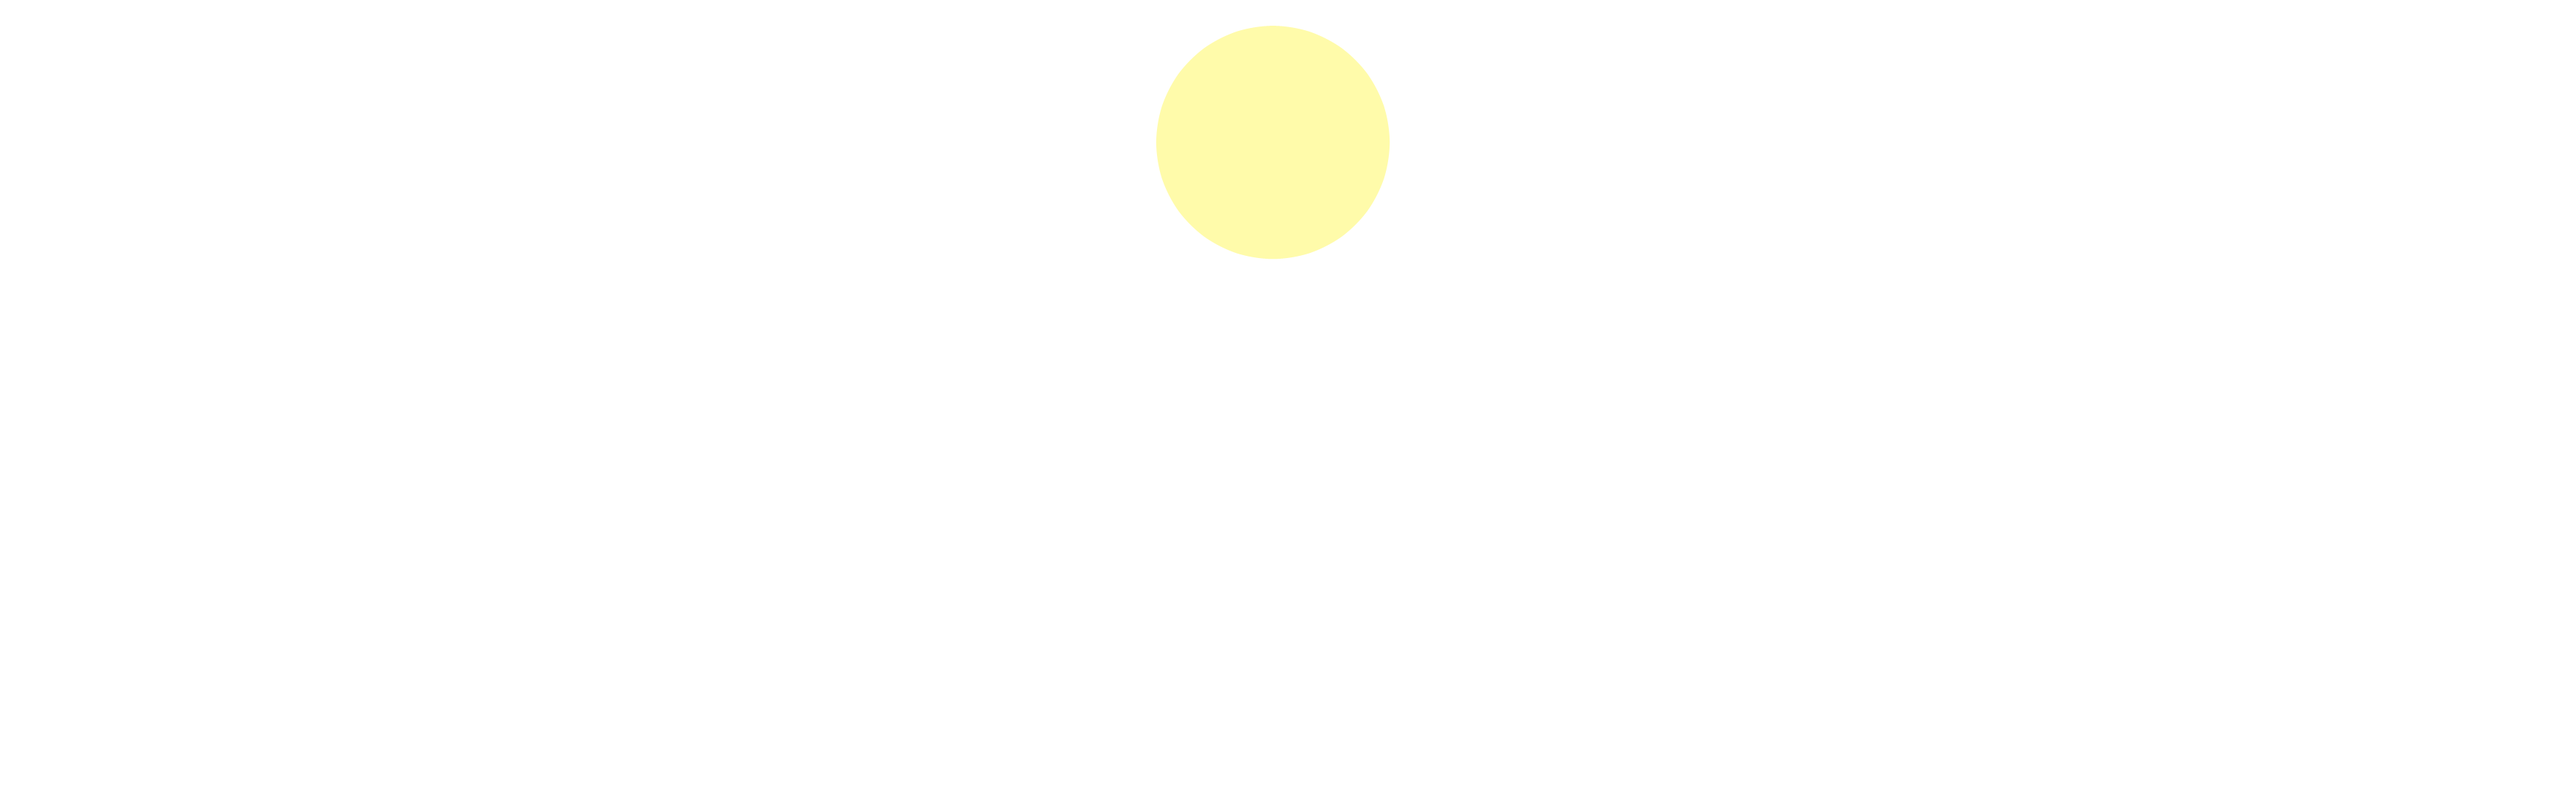
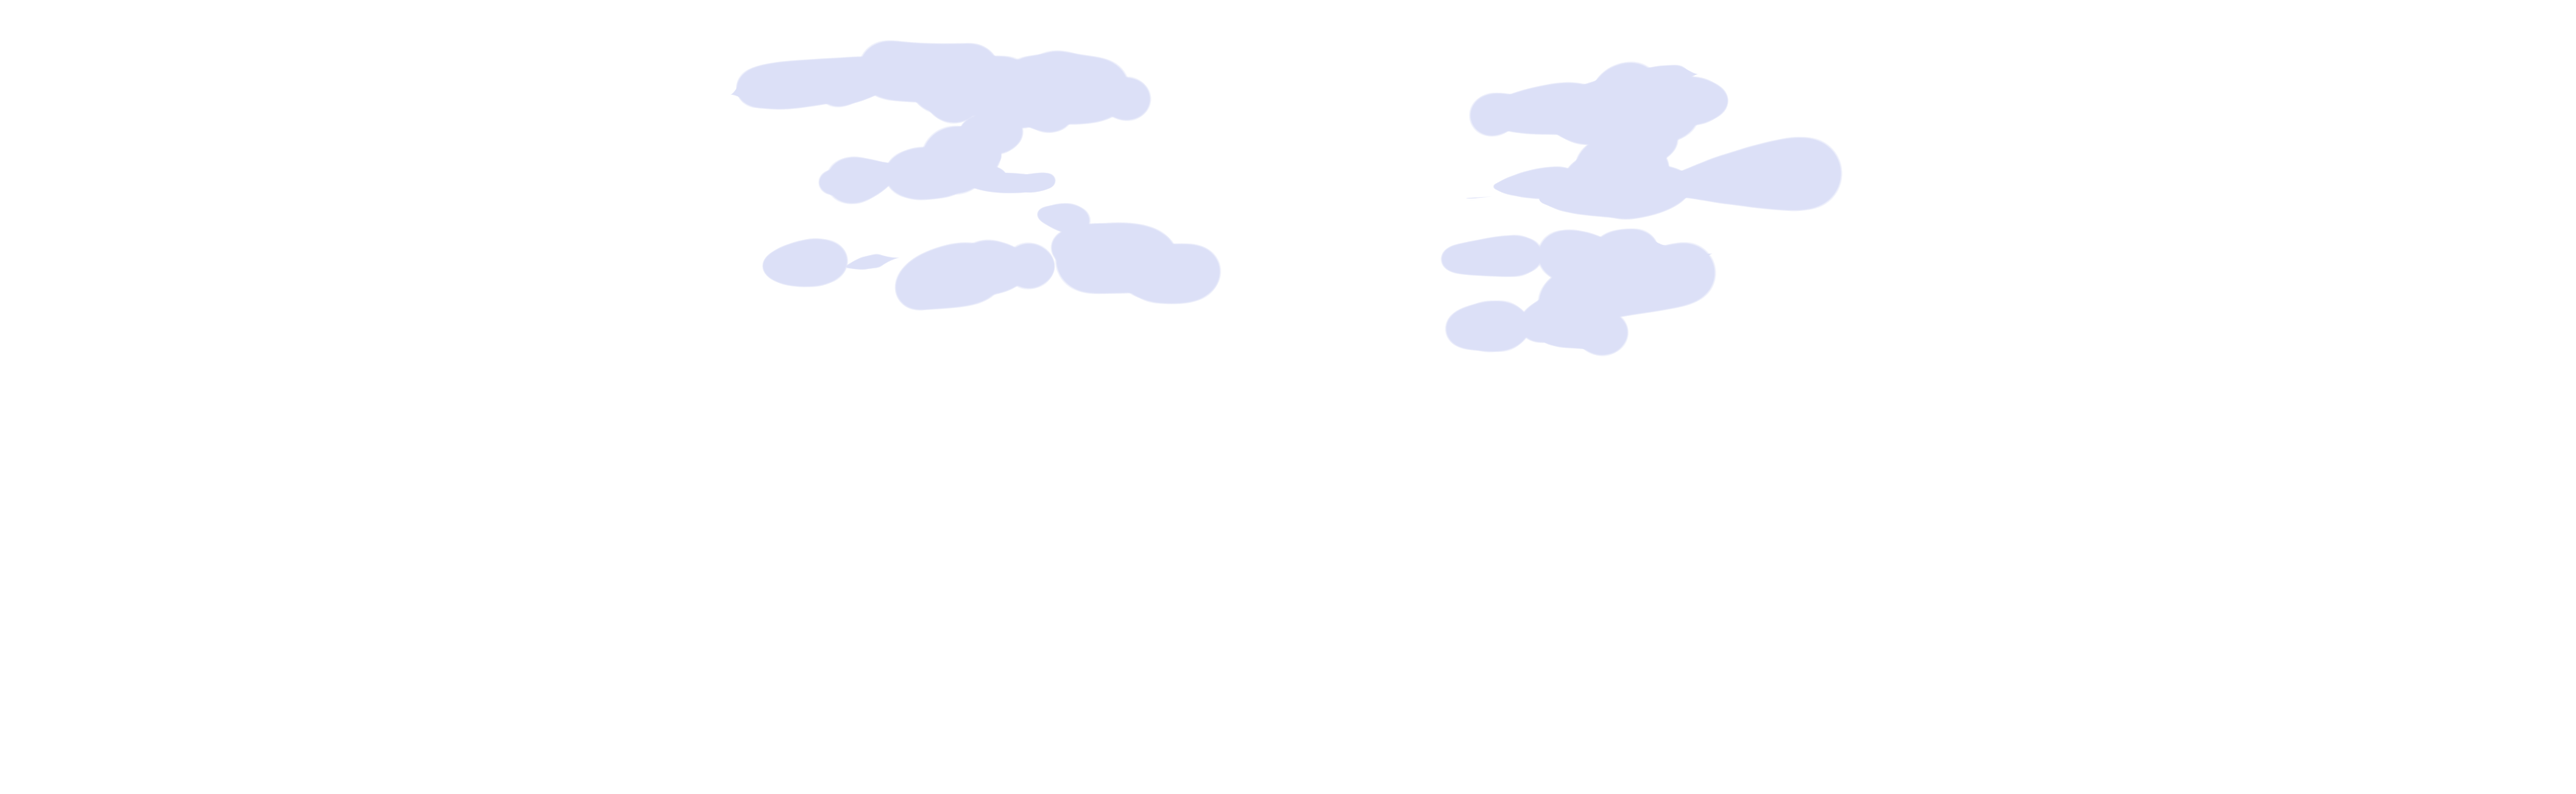
movement

Changed region(s): [[0.2803, 0.0306, 0.7163, 0.4583]]

diff --git a/css/desktop-sm.css b/css/desktop-sm.css
@@ -75,6 +75,96 @@
         background-image: url(/img/art/parallax/parallax11.png)
     }
 
+/* ============================================================================================== 
+SED Innovations
+https://sed.am
+https://mkrtchyan.ga
+================================================================================================= */
+
+
+
+@keyframes move-twink-back {
+    from {background-position:0 0;}
+    to {background-position:-5000px 2500px;}
+}
+@-webkit-keyframes move-twink-back {
+    from {background-position:0 0;}
+    to {background-position:-5000px 2500px;}
+}
+@-moz-keyframes move-twink-back {
+    from {background-position:0 0;}
+    to {background-position:-5000px 2500px;}
+}
+@-ms-keyframes move-twink-back {
+    from {background-position:0 0;}
+    to {background-position:-5000px 2500px;}
+}
+
+@keyframes move-clouds-back {
+    from {background-position:-750 0;}
+    to {background-position:1250px 0;}
+}
+@-webkit-keyframes move-clouds-back {
+    from {background-position:0 0;}
+    to {background-position:1250px 0;}
+}
+@-moz-keyframes move-clouds-back {
+    from {background-position:0 0;}
+    to {background-position:1250px 0;}
+}
+@-ms-keyframes move-clouds-back {
+    from {background-position: 0;}
+    to {background-position:1250px 0;}
+}
+
+
+.stars {
+  background:#2A3370 url(/img/art/stars.png) no-repeat top center;
+    background-size: 100%;
+  z-index:0;
+}
+
+.twinkling{
+  background:transparent url(/img/art/twinkling.png) repeat top center;
+
+  top:0;
+  left:0;
+  right:0;
+  bottom:0;
+  width:100%;
+  height:100%;
+  display:block;
+
+  -moz-animation:move-twink-back 200s linear infinite;
+  -ms-animation:move-twink-back 200s linear infinite;
+  -o-animation:move-twink-back 200s linear infinite;
+  -webkit-animation:move-twink-back 200s linear infinite;
+  animation:move-twink-back 200s linear infinite;
+}
+
+.clouds{
+  -moz-animation:move-clouds-back 200s linear infinite;
+  -ms-animation:move-clouds-back 200s linear infinite;
+  -o-animation:move-clouds-back 200s linear infinite;
+  -webkit-animation:move-clouds-back 200s linear infinite;
+  animation:move-clouds-back 200s linear infinite;
+}
+    
+    
+    
+    
+    
+    
+    
+    
+    
+    
+    
+    
+    
+    
+    
+    
     
     header {
           padding: 20px 10% 20px 13%;

diff --git a/index.html b/index.html
@@ -14,7 +14,7 @@
         <script type="text/javascript" src="//code.jquery.com/jquery-1.11.0.min.js"></script>
         <script type="text/javascript" src="//code.jquery.com/jquery-migrate-1.2.1.min.js"></script>
         <script type="text/javascript" src="slick/slick.min.js"></script>
-        
+       
         <!--  FAVICON   -->
         
         <link rel="apple-touch-icon" sizes="180x180" href="/img/favicon/apple-touch-icon.png">
@@ -31,12 +31,16 @@
  
         <div class="lightsOff"></div>
         <section class="showcase">
+            <div class="parallaxLayer parallax stars" id="layer-1" data-speed="2">            </div>
+            
+            <div class="parallaxLayer parallax twinkling" id="layer0" data-speed="2">            </div>
+            
             <div class="parallaxLayer parallax" id="layer1" data-speed="2">
             
             
             
             </div>
-            <div class="parallaxLayer parallax" id="layer2" data-speed="5">
+            <div class="parallaxLayer parallax clouds" id="layer2" data-speed="5">
             
             
             
@@ -61,7 +65,7 @@
             
             
             </div>
-            <div class="parallaxLayer parallax" id="layer7" data-speed="5">
+            <div class="parallaxLayer parallax" id="layer7" data-speed="2">
             
             
             

diff --git a/css/dark-theme.css b/css/dark-theme.css
@@ -1,0 +1,20 @@
+:root {
+
+--contrast: #2a2d42;
+--mainBG: #21252E; 
+--primary: #243650;
+--dark: #DFDFDF;
+}
+
+
+header .logo {
+    stroke: var(--dark);
+}
+
+.menu ul li a,
+.button a::before,
+.ribbon span
+{
+    color: var(--dark);
+
+}
